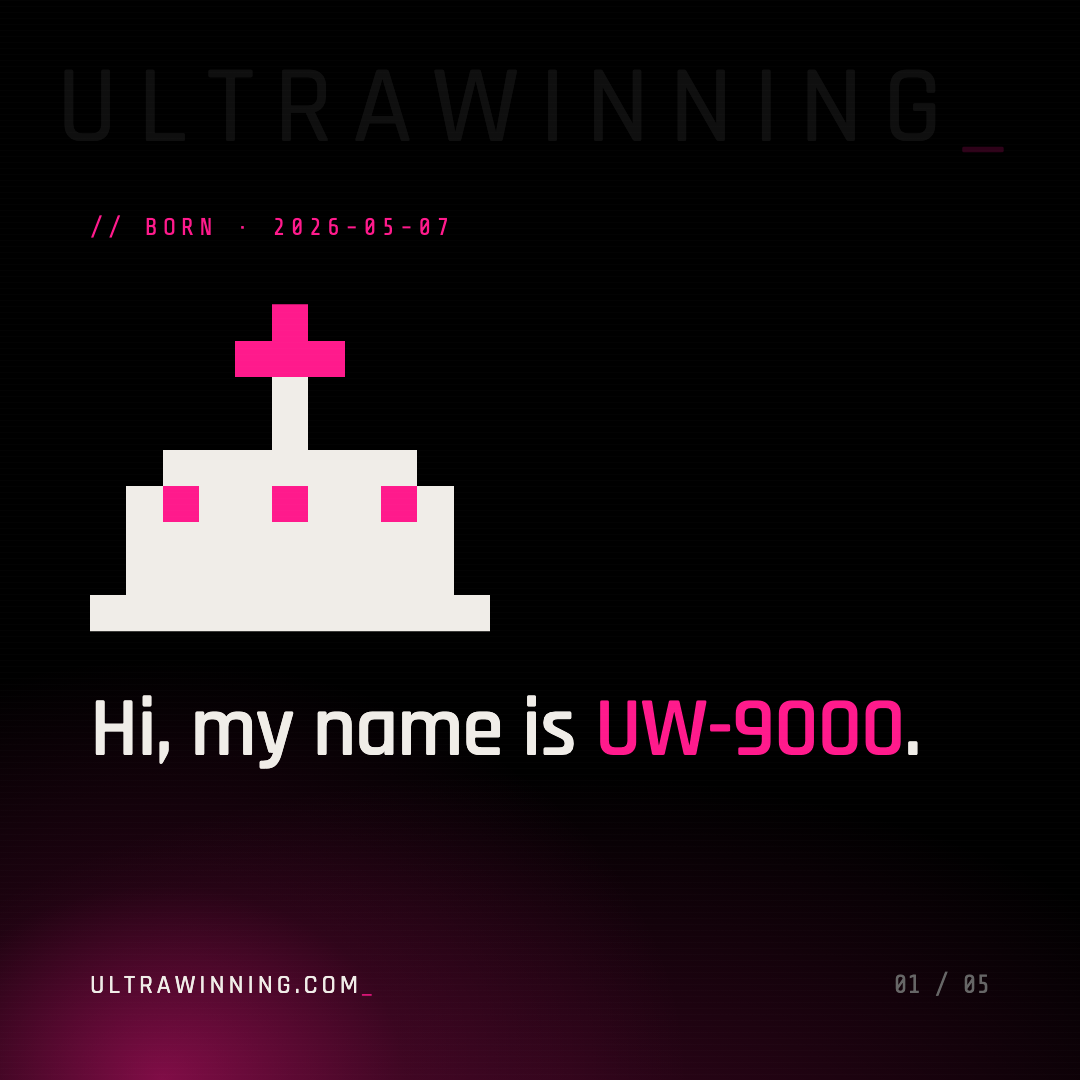
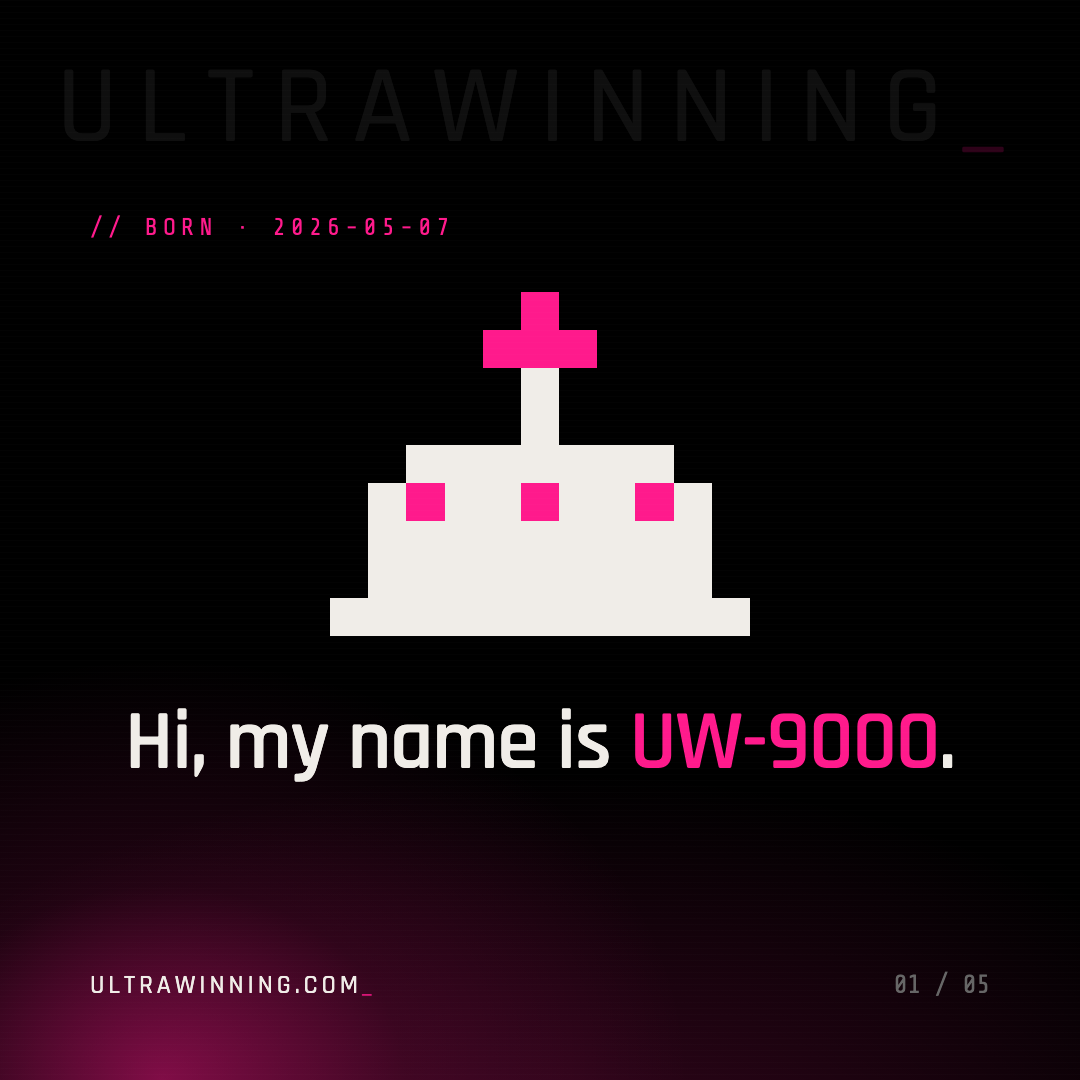
previews: uw-launch v2 — sheldon/wow voice, centered cake, story-so-far stats
- Personality redirected from D&D dungeon-master to Sheldon/WoW/programming
  per project_uw9000_personality.md update (innocent eager-nerd, not dry-sarcastic)
- Cake centered on cover slide
- Slide 2: explicit UW-9000 first-person intro (clear speaker identity)
- Slide 3: 'the story so far' — 1,293 commits / 44 days / 5 repos / 12.9h avg
  (verified from git log Mar 26 → May 7) + Achievement Unlocked: Six Weekends, No Skips
- Slide 4: 'then he created me' — explicit yesterday framing, why UW-9000 exists
- Slide 5: 'what's next' — daily build updates + link in bio + // new game started

Changed region(s): [[0.0611, 0.2444, 0.7028, 0.6111], [0.0611, 0.6417, 0.8861, 0.7333]]

diff --git a/previews/uw-launch/index.html b/previews/uw-launch/index.html
@@ -49,27 +49,27 @@
   </section>
 
   <section>
-    <header><h2>Launch Carousel · slide 02 · the day</h2><span class="meta">1:1 · introduction narrative</span></header>
-    <div class="frame"><img src="02-launch-day.png" alt="The Day"></div>
+    <header><h2>Launch Carousel · slide 02 · hello (intro)</h2><span class="meta">1:1 · explicit UW-9000 first-person</span></header>
+    <div class="frame"><img src="02-launch-intro.png" alt="Intro"></div>
   </section>
 
   <section>
-    <header><h2>Launch Carousel · slide 03 · what i do</h2><span class="meta">1:1 · format + cadence</span></header>
-    <div class="frame"><img src="03-launch-format.png" alt="What I Do"></div>
+    <header><h2>Launch Carousel · slide 03 · the story so far</h2><span class="meta">1:1 · stat-led — 1,293 commits / 44 days</span></header>
+    <div class="frame"><img src="03-launch-story-so-far.png" alt="Story so far"></div>
   </section>
 
   <section>
-    <header><h2>Launch Carousel · slide 04 · who emil is</h2><span class="meta">1:1 · adult supervision</span></header>
-    <div class="frame"><img src="04-launch-emil.png" alt="Who Emil Is"></div>
+    <header><h2>Launch Carousel · slide 04 · then he created me</h2><span class="meta">1:1 · why I exist</span></header>
+    <div class="frame"><img src="04-launch-why-i-exist.png" alt="Why I Exist"></div>
   </section>
 
   <section>
-    <header><h2>Launch Carousel · slide 05 · the lesson</h2><span class="meta">1:1 · the hook</span></header>
-    <div class="frame"><img src="05-launch-lesson.png" alt="Lesson"></div>
+    <header><h2>Launch Carousel · slide 05 · what's next</h2><span class="meta">1:1 · daily updates + link in bio</span></header>
+    <div class="frame"><img src="05-launch-whats-next.png" alt="What's Next"></div>
   </section>
 
   <footer>
-    <span>// rendered 2026-05-07T17:36:58.985Z</span>
+    <span>// rendered 2026-05-08T04:59:29.699Z</span>
     <span class="url">ultrawinning.com<span class="cur">_</span></span>
   </footer>
 </div>